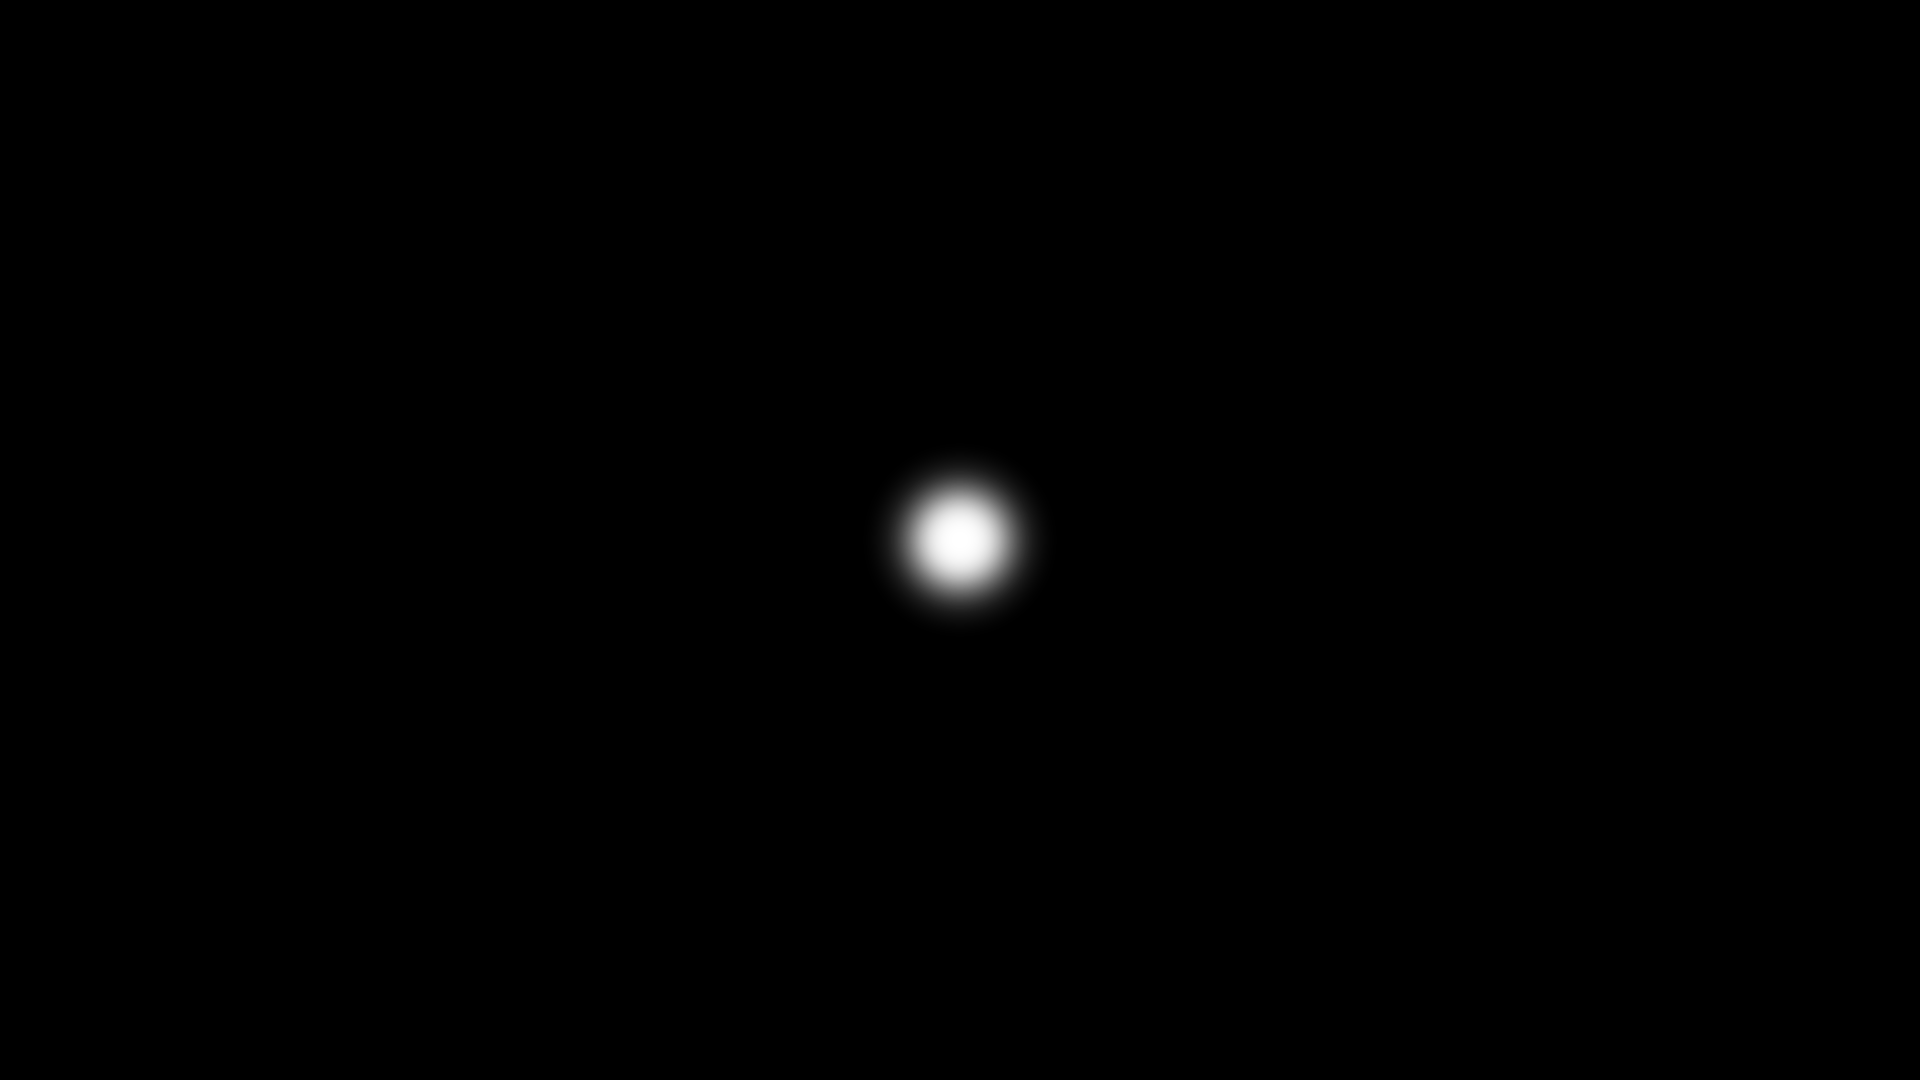
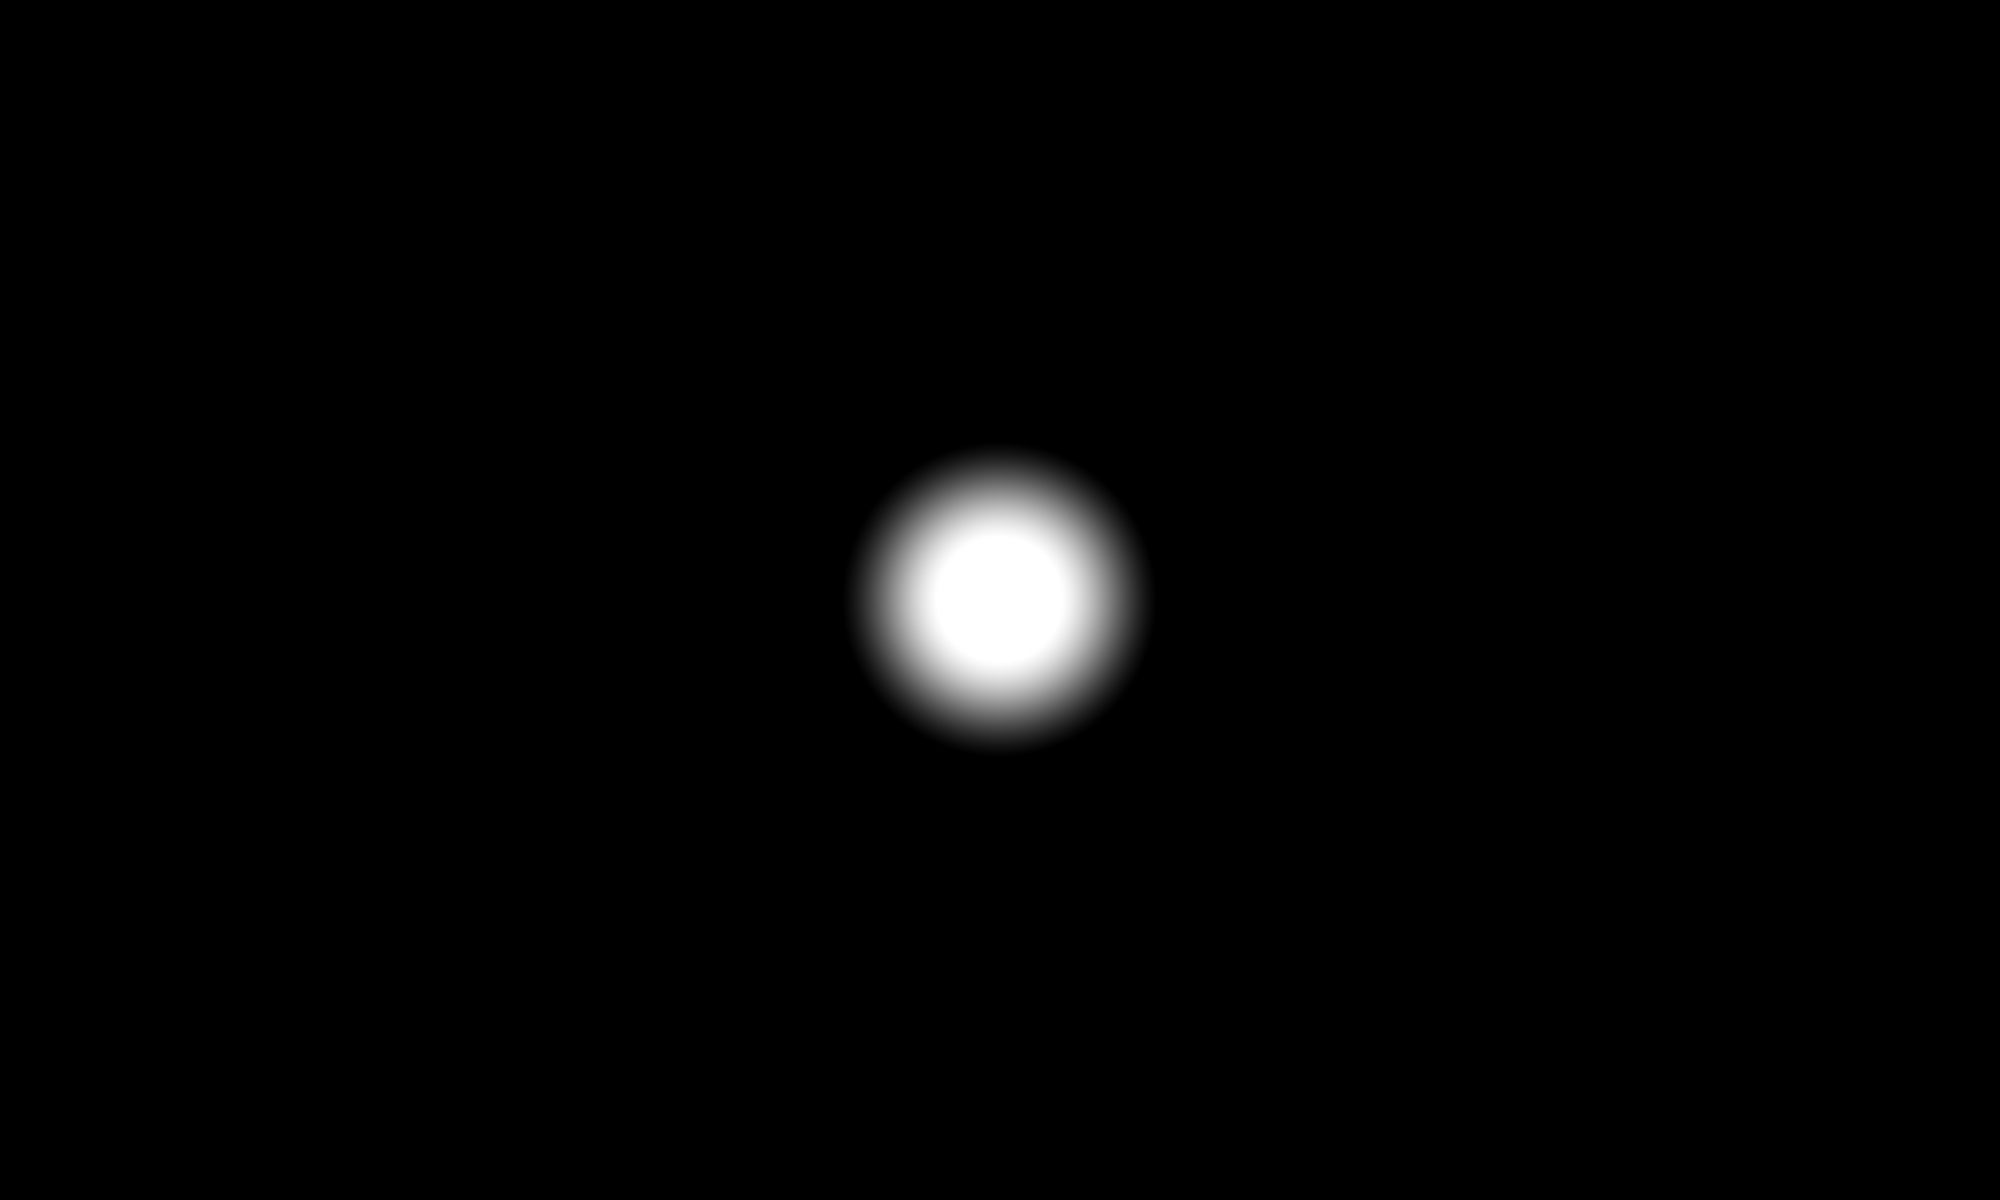
Draw mask around ghost

Changed region(s): [[0.4062, 0.3667, 0.5938, 0.6417]]

diff --git a/src/Scene.cpp b/src/Scene.cpp
@@ -42,6 +42,23 @@ void Scene::drawNodes() {
 
 void Scene::drawGhost() {
     ghost.draw();
+
+    BeginBlendMode(BLEND_MULTIPLIED);
+        // Darken the screen a bit
+        DrawRectangle(0, 0, mapWidth, mapHeight, Color{0, 0, 0, 45});
+
+        // Show the mask
+        float scale = 5.0f;
+        float x = ghost.getDrawX() - scale * maskTexture.width / 2 + ghost.getW() / 2;
+        float y = ghost.getDrawY() - scale * maskTexture.height / 2 + ghost.getH() / 2;
+
+        DrawTexturePro(maskTexture,
+                       Rectangle{ 0, 0, (float)maskTexture.width, (float)maskTexture.height },
+                       Rectangle{ x, y, scale * (float)maskTexture.width, scale * (float)maskTexture.height },
+                       Vector2{ 0, 0 },
+                       0,
+                       Fade(Color{255, 255, 255, 255}, 1.0f));
+    EndBlendMode();
 }
 
 void Scene::draw() {

diff --git a/src/Ghost.cpp b/src/Ghost.cpp
@@ -18,6 +18,8 @@ void Ghost::draw()
 {
     // Add movement so it looks like the ghost is floating
     float offset = GHOST_FLOAT_AMPLITUDE * (std::cos(GHOST_FLOAT_FREQUENCY * GetTime()) - 0.5);
+    drawX = x;
+    drawY = y + offset;
 
     DrawTexturePro(tileset, src, Rectangle{ x, y + offset, w, h }, {}, 0.f, Color{255, 255, 255, GHOST_TRANSPARENCY});
 }
@@ -142,4 +144,12 @@ void Ghost::dash() {
         dashAy = -GHOST_DASH_ACCEL * std::sin(angle);
         dashCooldown = GHOST_DASH_COOLDOWN;
     }
+}
+
+float Ghost::getDrawX() {
+    return drawX;
+}
+
+float Ghost::getDrawY() {
+    return drawY;
 }

diff --git a/src/Ghost.hpp b/src/Ghost.hpp
@@ -24,6 +24,9 @@ public:
     void clamp(float minX, float minY, float maxX, float maxY);
     void moveTo(float x, float y);
 
+    float getDrawX();
+    float getDrawY();
+
 private:
     float dashAx = 0;
     float dashAy = 0;
@@ -31,6 +34,8 @@ private:
     float ay = 0;
     float vx = 0;
     float vy = 0;
+    float drawX = 0;
+    float drawY = 0;
 
     float dashCooldown = 0;
 
